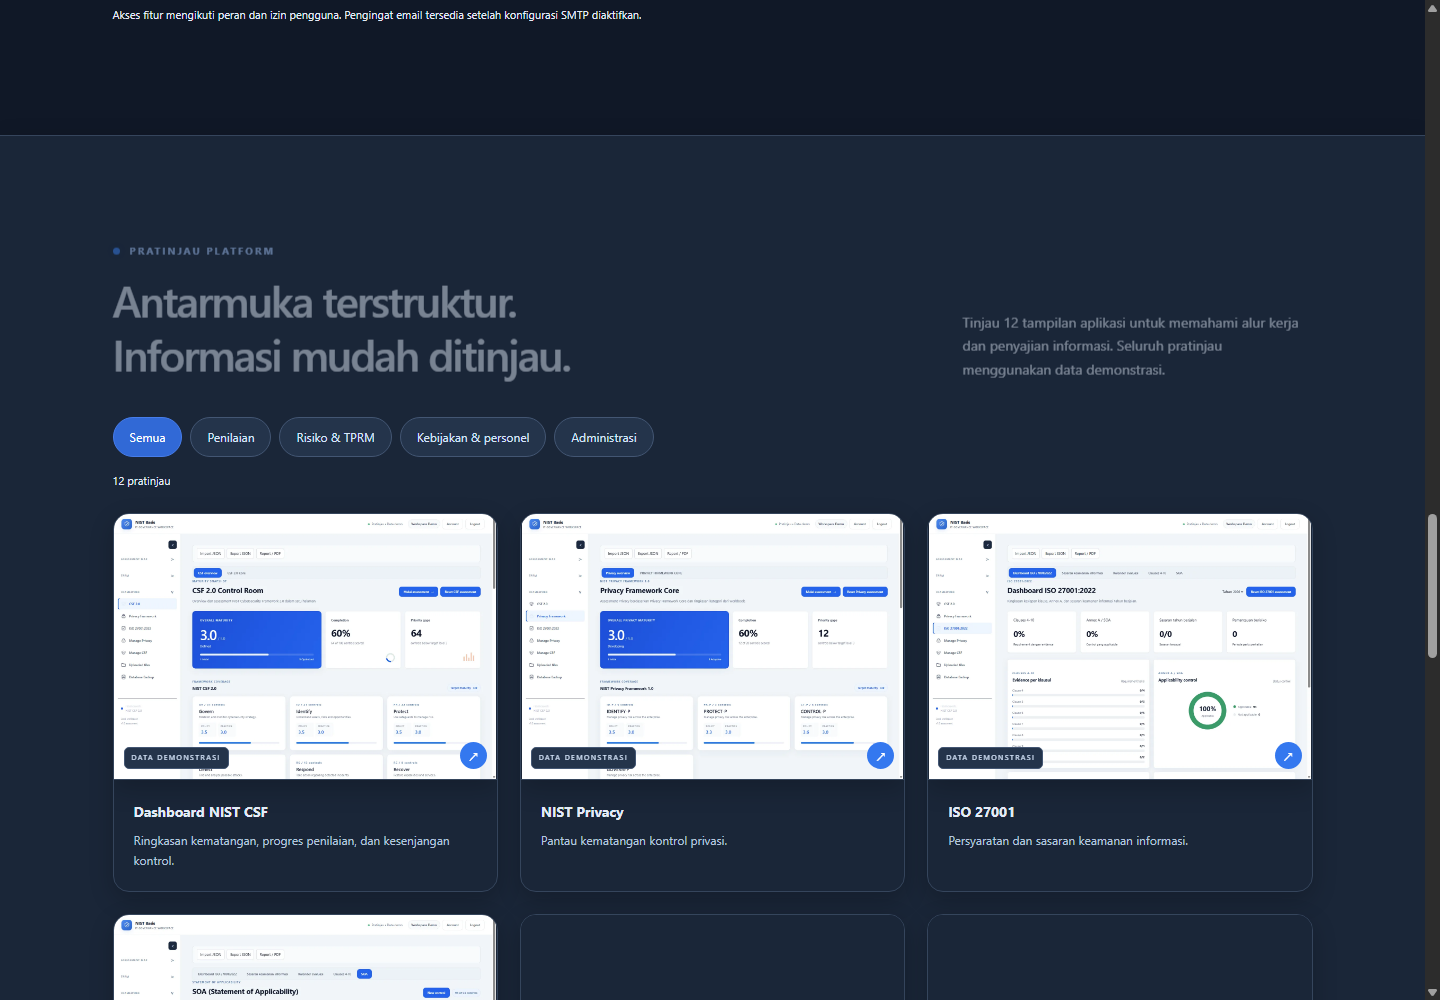
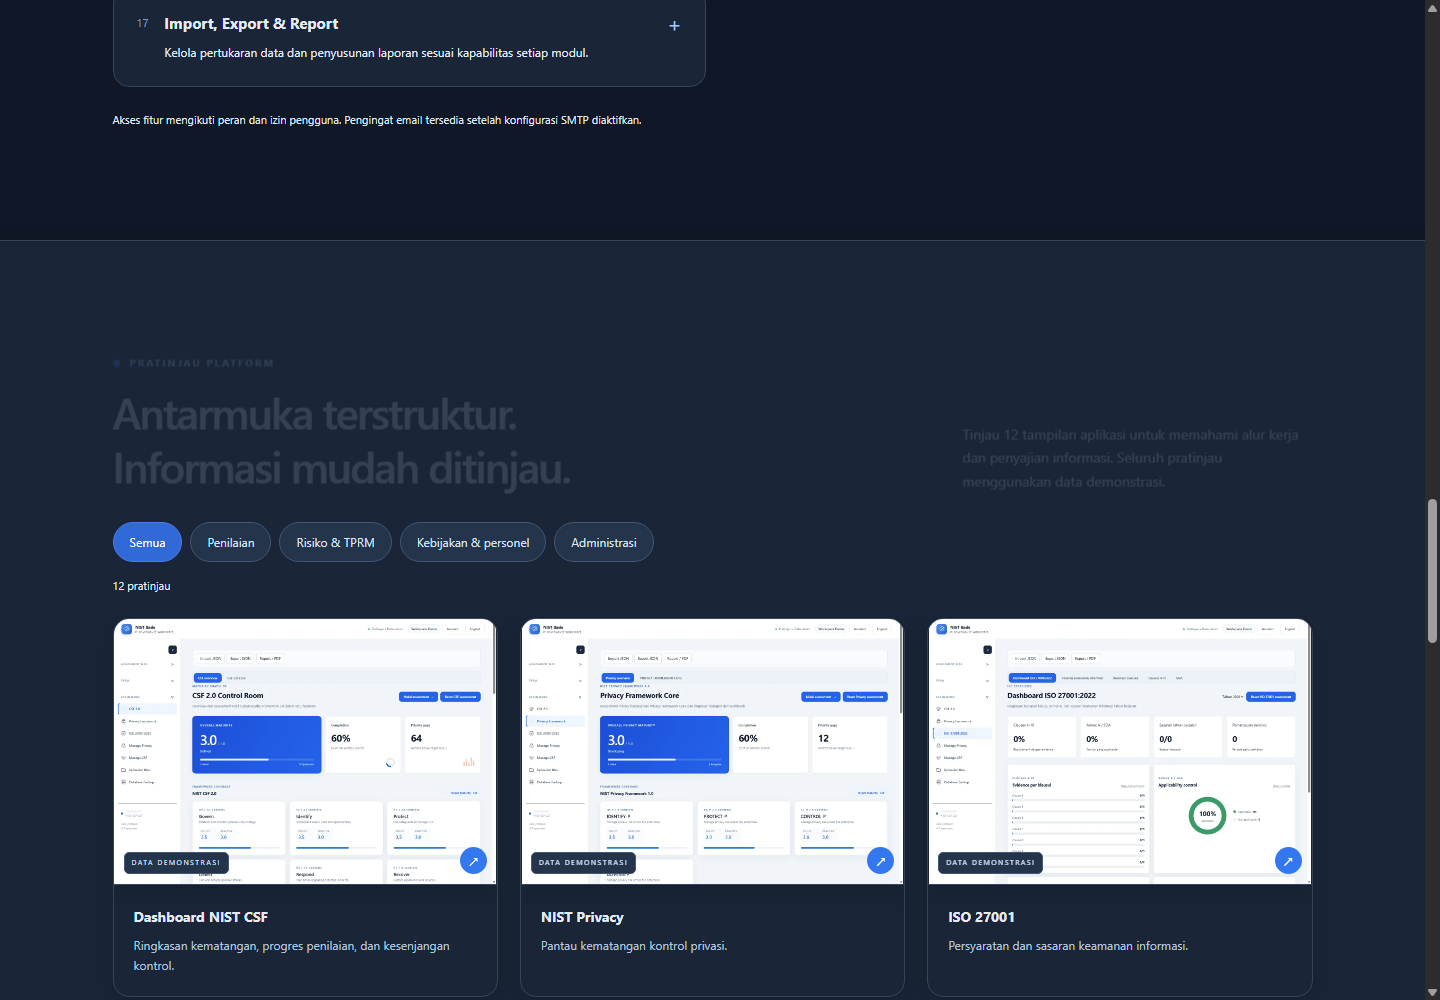
fix darkmode hover

diff --git a/scripts/test-theme-browser.js b/scripts/test-theme-browser.js
@@ -37,7 +37,7 @@ const delay=ms=>new Promise(r=>setTimeout(r,ms));
  }
  await evaluate("document.querySelector('[data-view=monitoring-dashboard]').click()");
  fs.mkdirSync('output',{recursive:true});fs.writeFileSync('output/dark-mode-workspace-preview.png',Buffer.from((await call('Page.captureScreenshot',{format:'png'})).data,'base64'));
- await evaluate("document.querySelector('[data-view=asset-register]').click()");await wait("!!document.querySelector('#assetManagementView.active-view')");await wait("!!document.querySelector('#assetManagementView .asset-toolbar .button-accent') && !document.querySelector('#assetManagementView .asset-toolbar .button-accent').disabled");await evaluate("document.querySelector('#assetManagementView .asset-toolbar .button-accent').click()");await wait("!!document.querySelector('#assetManagementView dialog[open] .asset-cia-assessment')");assert.equal(await evaluate("getComputedStyle(document.querySelector('#assetManagementView dialog')).backgroundColor"),'rgb(26, 38, 56)');await evaluate("document.querySelector('#assetManagementView details').open=true");for(const level of ['low','medium','high'])assert.ok(await evaluate("themeContrast('.asset-matrix-cell."+level+"')>=4.5"));await evaluate("document.querySelector('#assetManagementView dialog .section-heading button').click()");
+ await evaluate("document.querySelector('[data-view=asset-register]').click()");await wait("!!document.querySelector('#assetManagementView.active-view')");await wait("!!document.querySelector('#assetManagementView .asset-toolbar .button-accent') && !document.querySelector('#assetManagementView .asset-toolbar .button-accent').disabled");const hoverPoint=await evaluate("(()=>{const e=document.querySelector('.asset-register-table tbody td');e.scrollIntoView({block:'center'});const r=e.getBoundingClientRect();return {x:r.x+15,y:r.y+15};})()");await call('Input.dispatchMouseEvent',{type:'mouseMoved',...hoverPoint});assert.equal(await evaluate("getComputedStyle(document.querySelector('.asset-register-table tbody td')).backgroundColor"),'rgb(36, 52, 75)');await call('Input.dispatchMouseEvent',{type:'mouseMoved',x:0,y:0});await evaluate("document.querySelector('#assetManagementView .asset-toolbar .button-accent').click()");await wait("!!document.querySelector('#assetManagementView dialog[open] .asset-cia-assessment')");assert.equal(await evaluate("getComputedStyle(document.querySelector('#assetManagementView dialog')).backgroundColor"),'rgb(26, 38, 56)');await evaluate("document.querySelector('#assetManagementView details').open=true");for(const level of ['low','medium','high'])assert.ok(await evaluate("themeContrast('.asset-matrix-cell."+level+"')>=4.5"));await evaluate("document.querySelector('#assetManagementView dialog .section-heading button').click()");
  await evaluate("document.querySelector('[data-view=knowledge-notes]').click()");await wait("!!document.querySelector('#knowledgeNotesView.active-view .layout')");assert.equal(await evaluate("getComputedStyle(document.querySelector('#knowledgeNotesView .layout')).backgroundColor"),'rgb(26, 38, 56)');
  await call('Emulation.setDeviceMetricsOverride',{width:390,height:900,deviceScaleFactor:1,mobile:true});assert.ok(await evaluate("document.querySelector('[data-theme-toggle]').checkVisibility()"));assert.ok(await evaluate("getComputedStyle(document.querySelector('[data-theme-label]')).display==='none'"));
  await evaluate("document.querySelector('[data-theme-toggle]').click()");await wait("document.documentElement.dataset.theme==='light'");assert.equal(await evaluate("localStorage.getItem('nist-basis-theme')"),'light');await evaluate("NistTheme.set('dark')");

diff --git a/frontend/public/theme.css b/frontend/public/theme.css
@@ -72,6 +72,7 @@ html[data-theme=dark] body.workspace-ui :is(.excel-table,.uploaded-files-table) 
 html[data-theme=dark] body.workspace-ui :is(.excel-table,.uploaded-files-table) tbody tr{background:#1a2638!important}
 html[data-theme=dark] body.workspace-ui :is(.excel-table,.uploaded-files-table) tbody tr:nth-child(even){background:#1d2c41!important}
 html[data-theme=dark] body.workspace-ui :is(.excel-table,.uploaded-files-table) tbody tr:hover{background:#263950!important}
+html[data-theme=dark] body.workspace-ui :is(.excel-table,.uploaded-files-table,.permission-matrix-table) tbody tr:hover>td:not(.asset-matrix-cell){background:#24344b!important}
 html[data-theme=dark] body.workspace-ui #policyRegisterPanel .policy-register-actions{background:#1a2638!important}
 html[data-theme=dark] body.workspace-ui :is(.monitor-module,.monitor-attention button,.monitor-metrics>div,.asset-relation-guide-grid article,.asset-cia-assessment,.asset-risk-matrix-wrap,.tm-editor,.knowledge-tree){border-color:#35455c!important}
 html[data-theme=dark] body.workspace-ui :is(.monitor-ring-total,.monitor-svg-value){fill:#e4ecf8!important}
